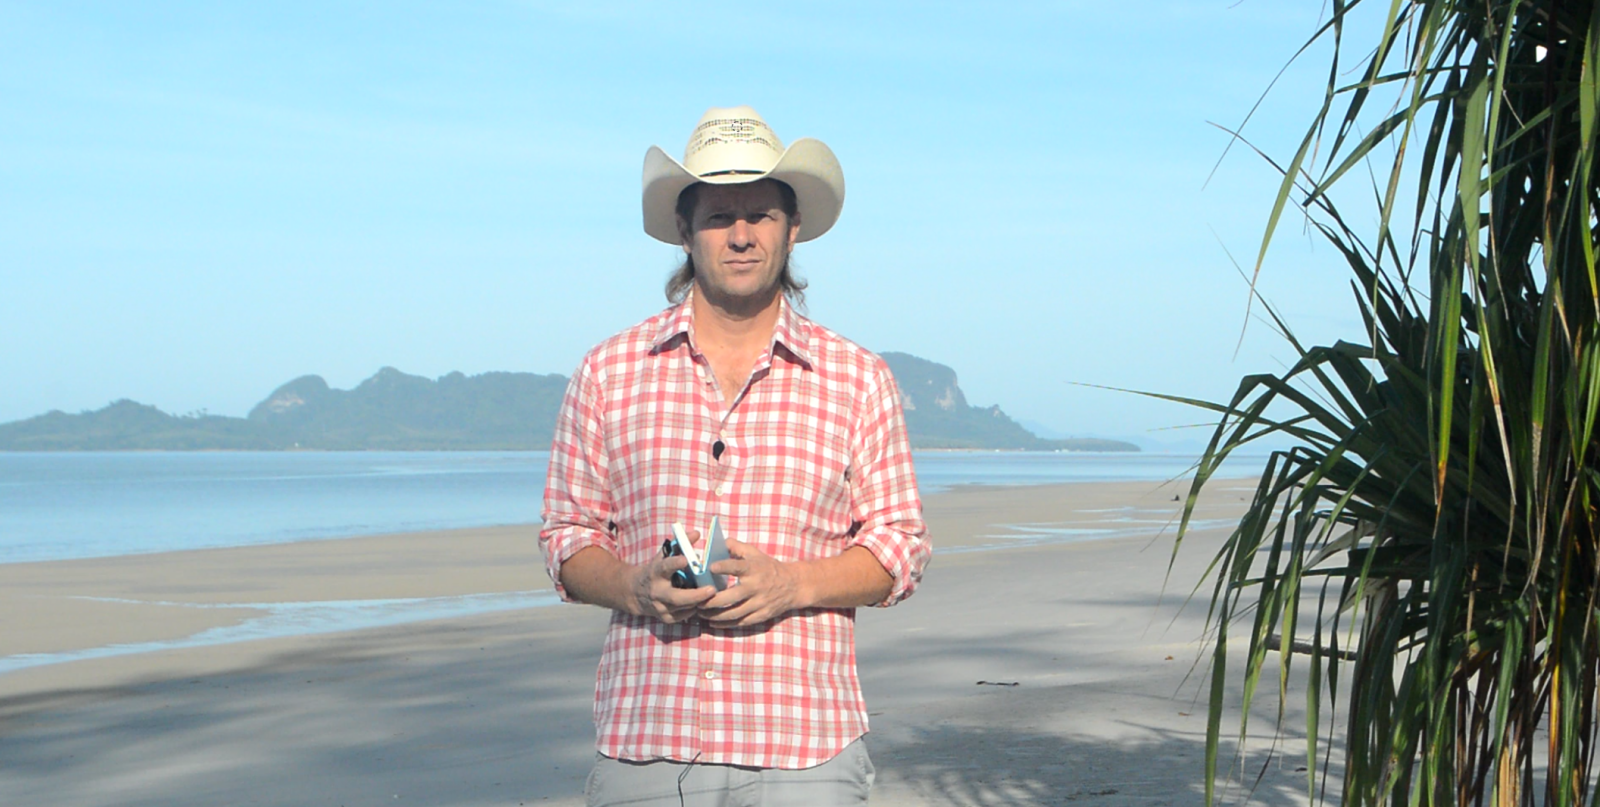
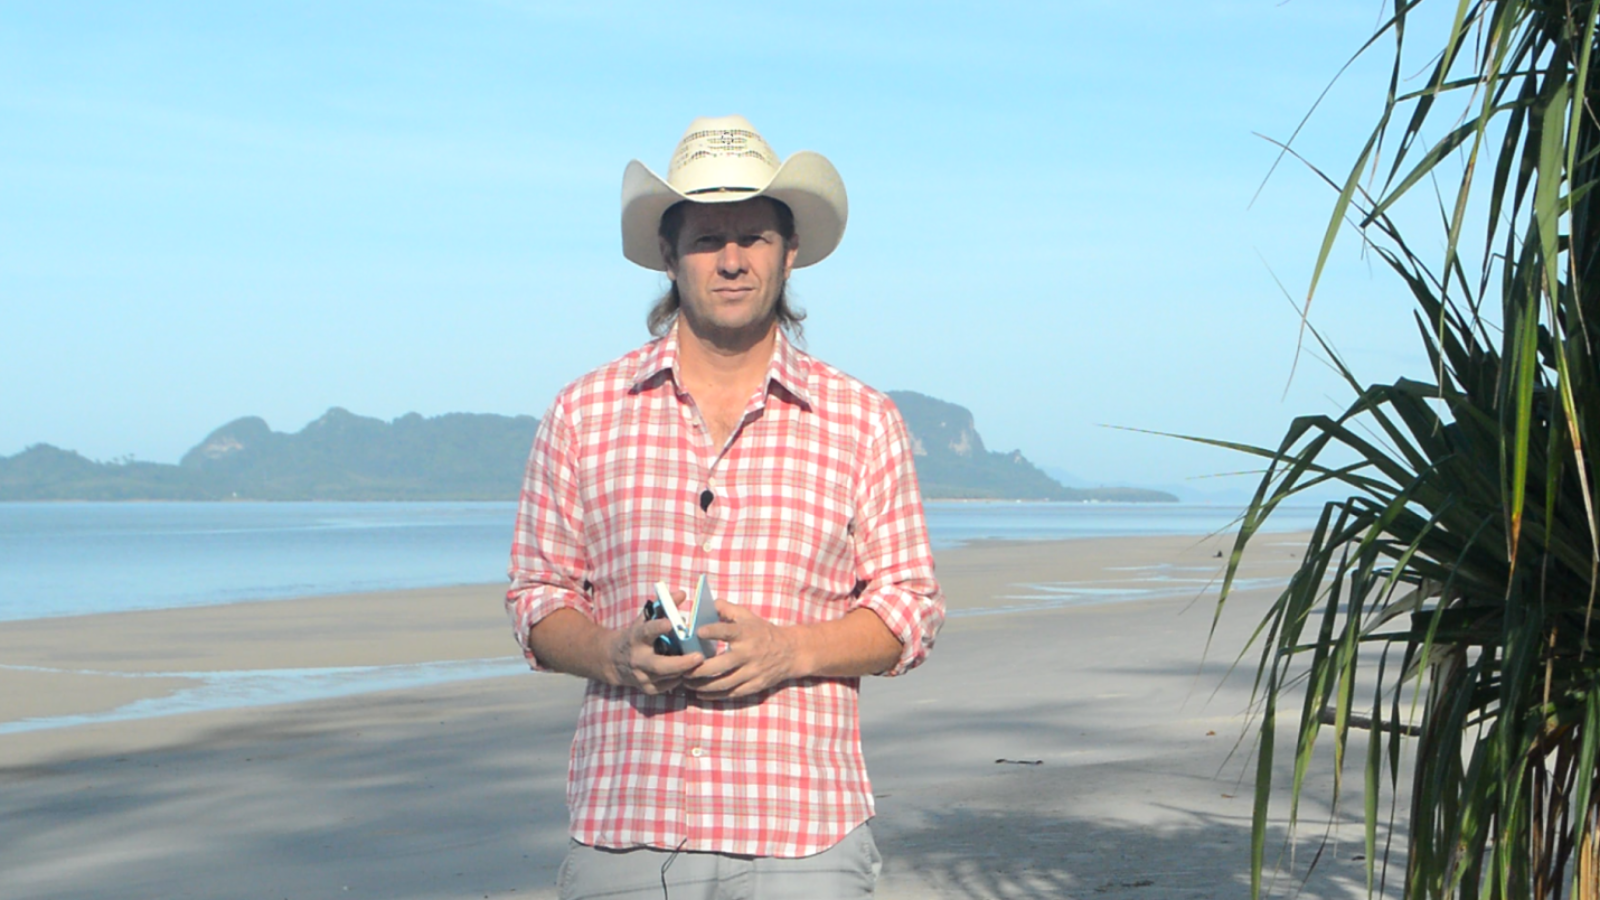
humbug movie

diff --git a/_posts/2018-11-29-humbug-the-mlsn-movie.md b/_posts/2018-11-29-humbug-the-mlsn-movie.md
@@ -1,0 +1,17 @@
+---
+layout: post
+title: "Humbug, the MLSN movie"
+share-img: "https://www.asianturfgrass.com/img/humbug_shoot.jpg"
+tags: [mlsn, video, fertilizer, soil test]
+---
+
+[This is a movie](https://vimeo.com/micahwoods/humbug) about making fertilizer recommendations from soil tests and how that works when using MLSN---that is an initialism of minimum levels for sustainable nutrition.
+
+<div style="padding:56.25% 0 0 0;position:relative;"><iframe src="https://player.vimeo.com/video/300790946" style="position:absolute;top:0;left:0;width:100%;height:100%;" frameborder="0" webkitallowfullscreen mozallowfullscreen allowfullscreen></iframe></div><script src="https://player.vimeo.com/api/player.js"></script>
+
+I hope you enjoy watching this, and that this video provides a few new bits of information about what MLSN is and how it works.
+
+I'd like to thank Niels Dokkuma from the Netherlands Golf Federation for inviting me to submit a video on this topic, and Larry Stowell, Sue Crawford, Bjarni Hannesson, and Andrew McDaniel for taking my calls and agreeing to appear in this movie. Additional thanks are due to Bjarni who worked as the audio engineer on this project.
+
+
+
